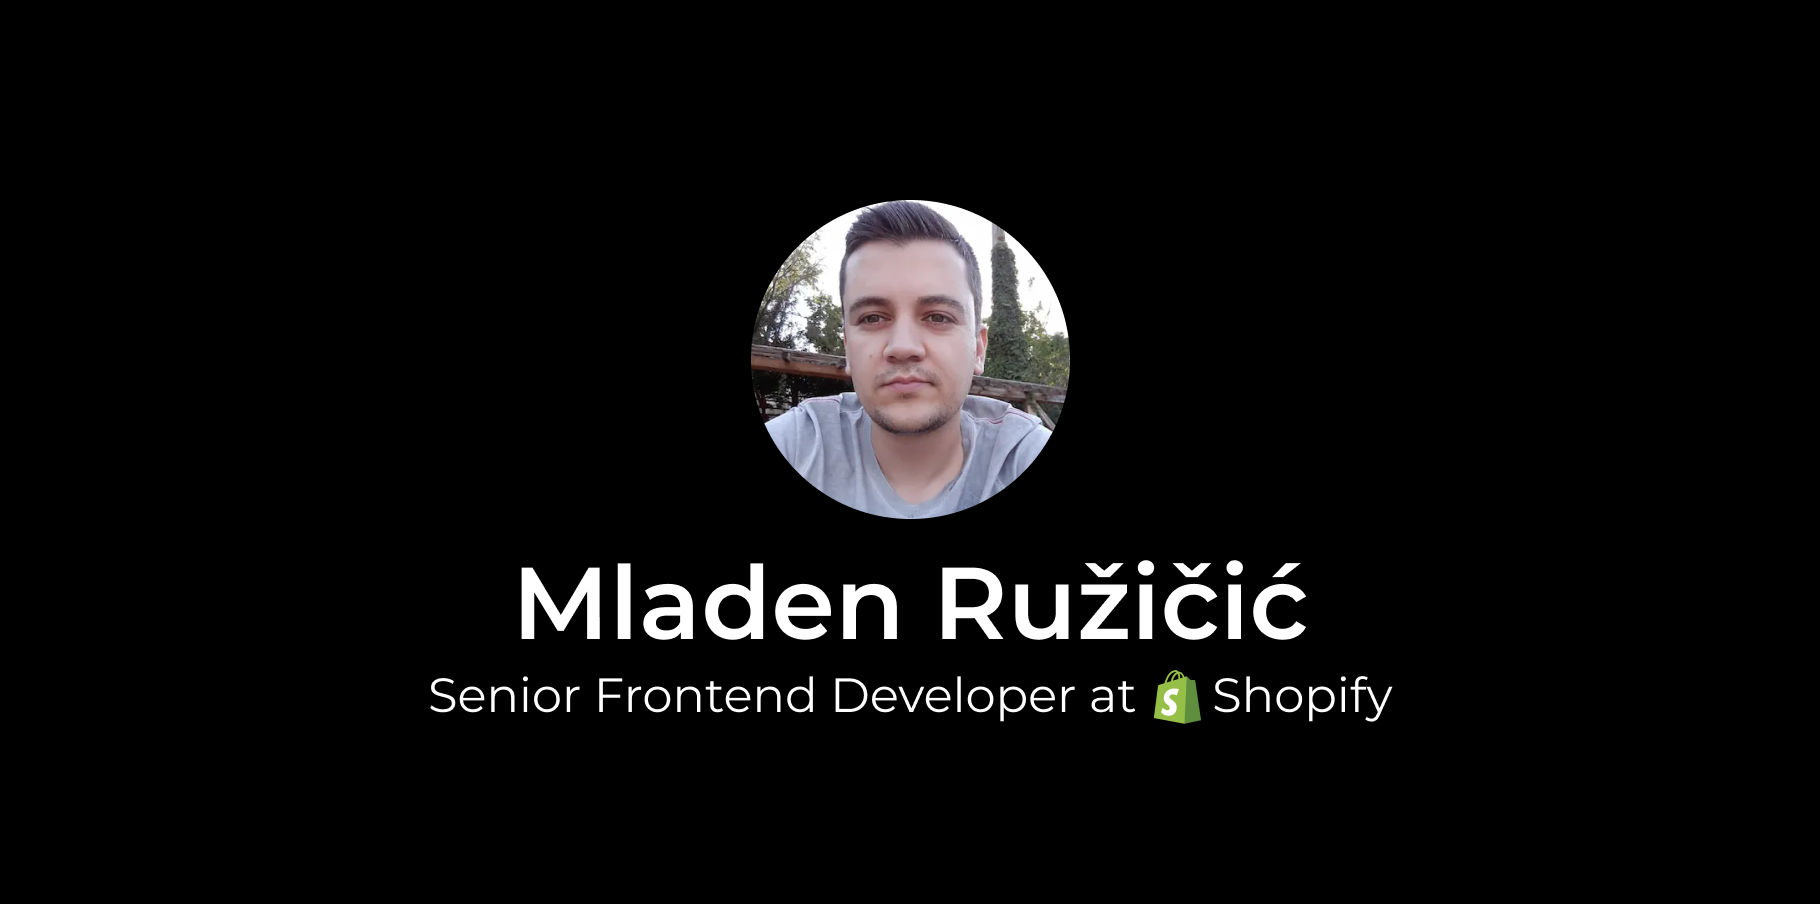
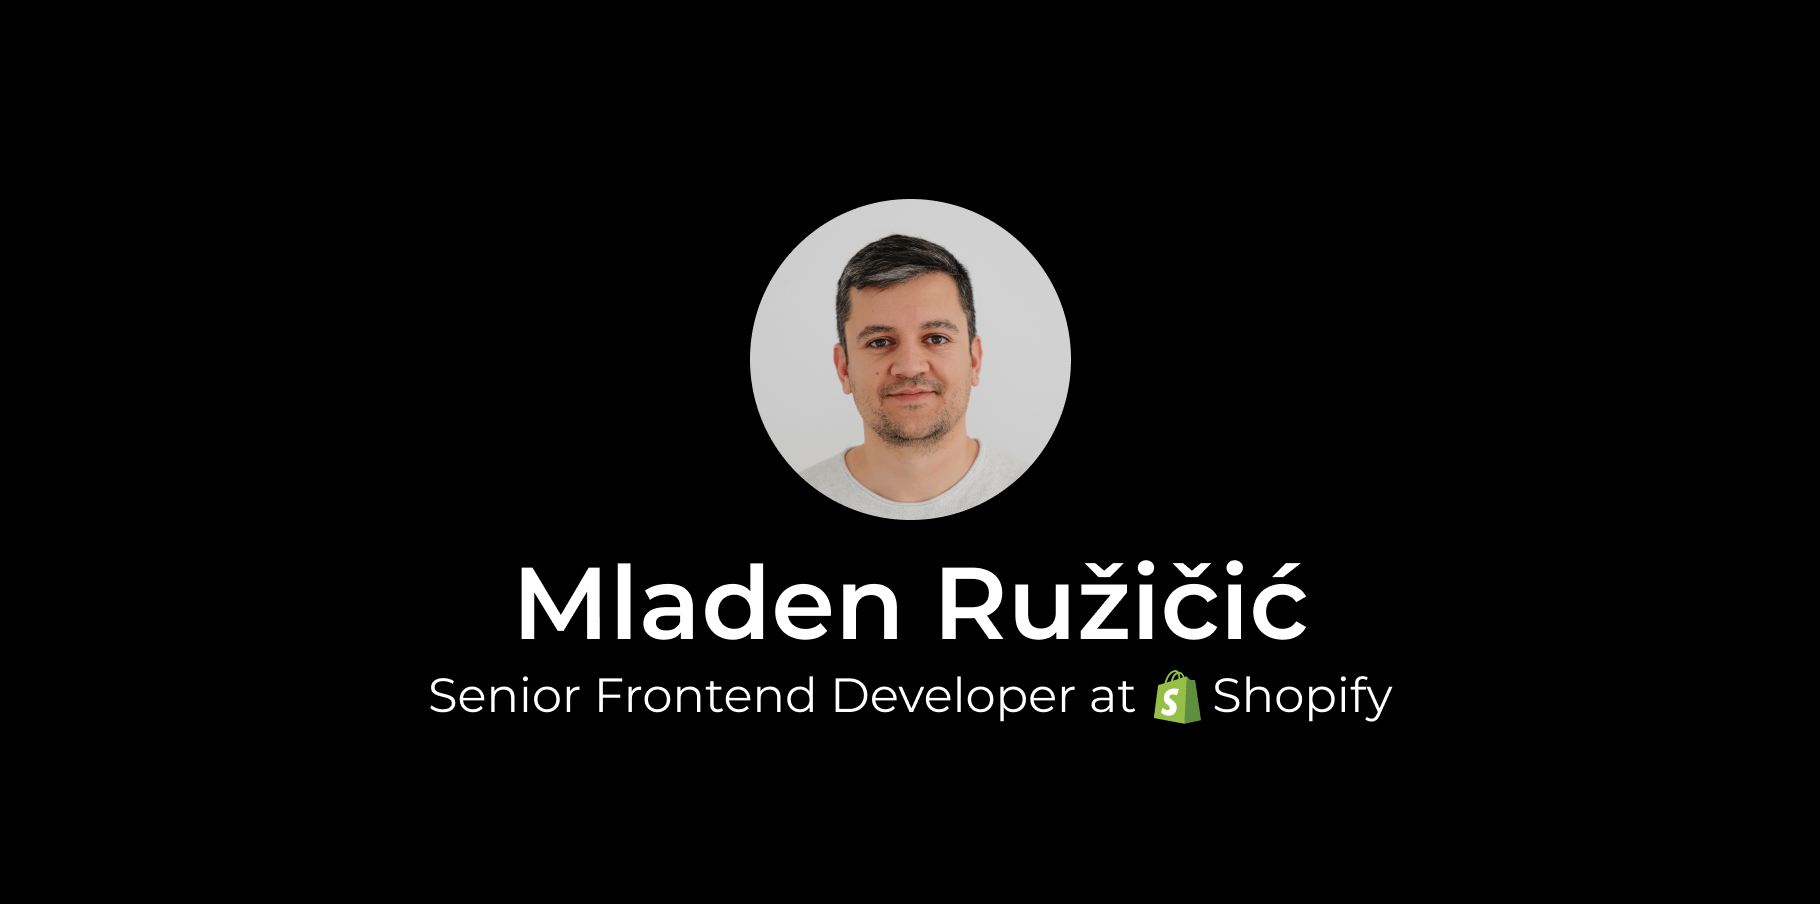
Update profile photo

Changed region(s): [[0.4, 0.2168, 0.6154, 0.5885]]

diff --git a/pages/index.tsx b/pages/index.tsx
@@ -29,8 +29,8 @@ export default function Home() {
               alt="Mladen Ruzicic"
               height={176}
               width={176}
-              src="/mladen-ruzicic.jpg"
-              className="rounded-full filter grayscale"
+              src="/mladen-ruzicic.png"
+              className="rounded-full"
             />
           </div>
         </div>
